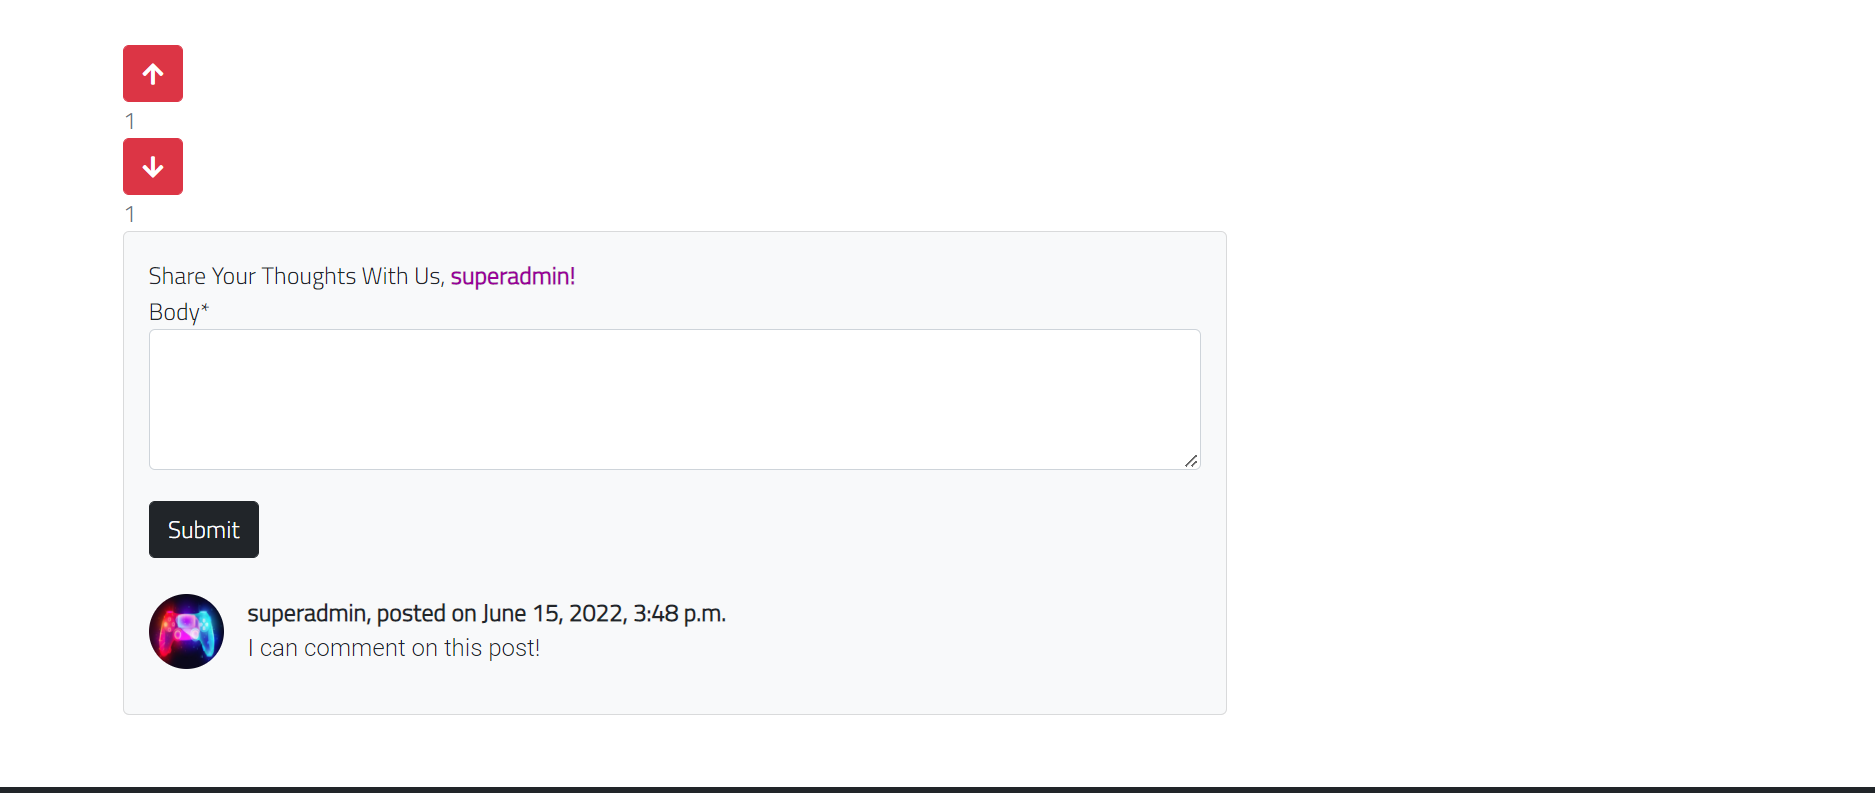
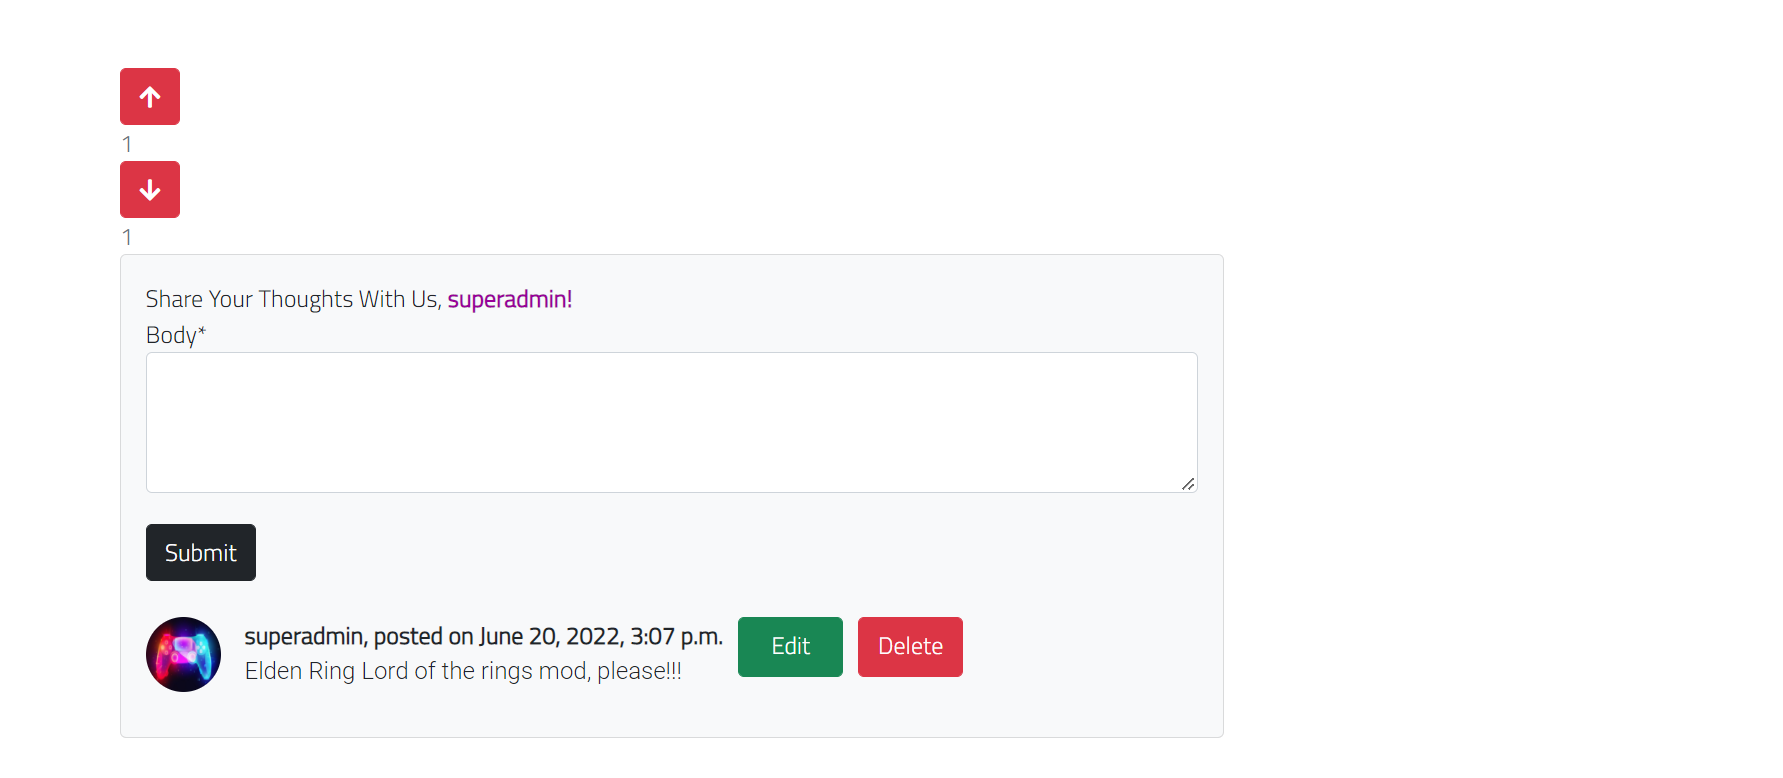
add testing for edit_comment.html

diff --git a/static/css/style.css b/static/css/style.css
@@ -11360,4 +11360,5 @@ footer li:hover {
   width: 70px;
   height: 40px;
   border-radius: 0.2;
+  margin-left: 10px;
 }

diff --git a/README.md b/README.md
@@ -2,7 +2,7 @@
 
 ------
 
-Mtagaming is a blog centered around videogames.It contains a vast array of content such as reviews, previews, opinion articles and even streaming. Users can sign up/login and interact with posts by commenting and upvoting/downvoting them.   
+Metagaming is a blog centered around videogames.It contains a vast array of content such as reviews, previews, opinion articles and even streaming. Users can sign up/login and interact with posts by commenting and upvoting/downvoting them.   
 
 
 The link to the deployed website can be found [here.](https://metagaming.herokuapp.com/)
@@ -277,9 +277,13 @@ This blog contains 3 authentication related pages: login, sign up and sign out. 
 
 ![non-authenticated comment/upvote/downvote image](/static/media/images/comment-signout.png "non-authenticated comment/upvote/downvote")
 
-- In this scenario, the user is logged in and has both upvoted and downvoted the post(for testing purposes), which is why both buttons have a red background. 
+- In this scenario, the user is logged in and has both upvoted and downvoted the post(for testing purposes), which is why both buttons have a red background.
 
 ![authenticated comment/upvote/downvote image](/static/media/images/comment.png "authenticated comment/upvote/downvote")
+
+- Edit/Delete Comment: If authenticated, the user can delete or edit a comment they made. Pressing delete will permanently erase the comment, while pressing edit will take the user to the screen shown below. 
+
+![edit/delete image](/static/media/images/edit.png "edit/delete")
 
 - Sign in message: After logging in, a successful sign in message appears for two seconds.
 
